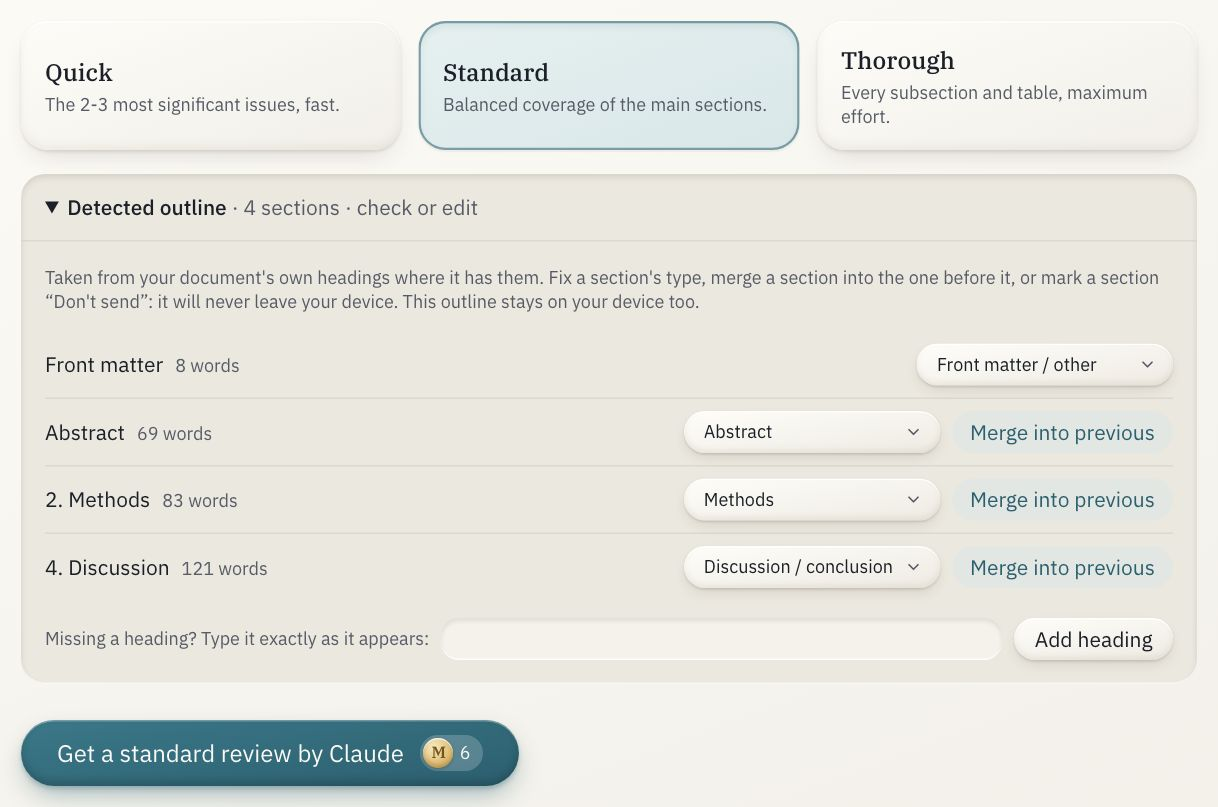
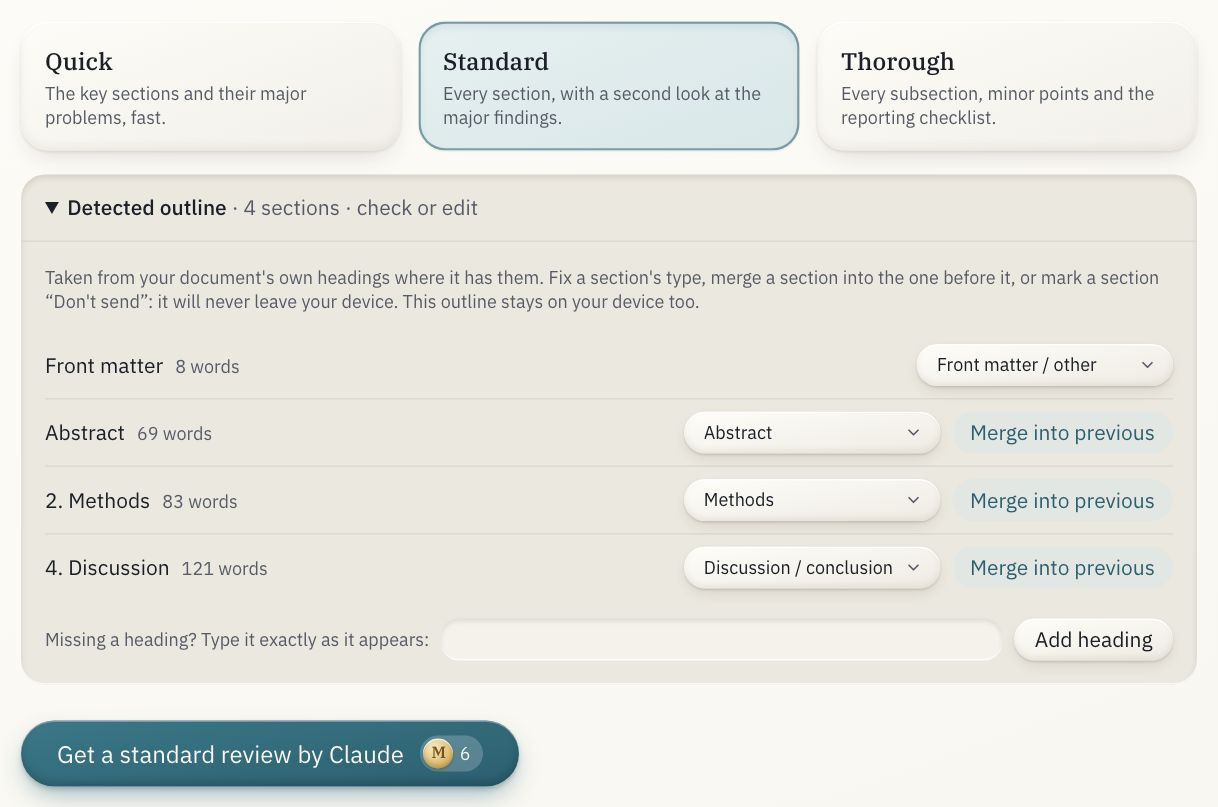
Review v2 copy: the consent, privacy notice v4, terms, refunds, pricing, guide and architecture say what it sends now

diff --git a/web/src/app/guide/page.tsx b/web/src/app/guide/page.tsx
@@ -330,9 +330,9 @@ export default function GuidePage() {
           <OptionTable
             title="Depth"
             rows={[
-              { name: "Quick", what: "The abstract, results and discussion; the 2–3 most significant issues, fast." },
-              { name: "Standard", what: "Every section except the references and supplementary material; balanced coverage.", def: "Default" },
-              { name: "Thorough", what: "Every section except the references, every subsection and table, with the most effort." },
+              { name: "Quick", what: "The abstract, results and discussion reviewed, with the whole paper as context; the major problems, fast." },
+              { name: "Standard", what: "Every section except the references and supplementary material, then a second look at the major findings and problems across the paper.", def: "Default" },
+              { name: "Thorough", what: "Standard, plus the supplementary material, each subsection on its own, minor points and suggestions, and the reporting checklist for your study type." },
             ]}
           />
           <OptionTable
@@ -351,12 +351,10 @@ export default function GuidePage() {
             notes={[
               <>Marked in the colour for something that leaves your device.</>,
               <>
-                <strong>What happens</strong>: your text goes to Claude in a stated number of short requests: one per section, then one cross-check of the
-                numbers found. Author names and email addresses are stripped first (best effort).
+                <strong>What happens</strong>: your text goes to Claude in a stated number of requests, each carrying the paper and doing one part: a section each, then the final report. Author names and email addresses are stripped first (best effort).
               </>,
               <>
-                <strong>The price</strong>: what this review costs in M coins, and your balance. Any part that doesn&apos;t come back (a section, or the
-                final cross-check) is refunded about two hours after it starts; resuming or retrying costs nothing more.
+                <strong>The price</strong>: what this review costs in M coins, and your balance. Any part that doesn&apos;t come back (a section, the reporting checklist or the final report) is refunded about two hours after it starts; resuming or retrying costs nothing more.
               </>,
               <>
                 <strong>Send it and review</strong>: the only way a review starts, and only once you tick the box agreeing to send the text. Cancel
@@ -366,7 +364,7 @@ export default function GuidePage() {
           />
           <Aside tone="away" title="What a review sends, and what happens to it">
             <p>
-              The text of the sections you didn&apos;t mark <strong>Don&apos;t send</strong>, to Anthropic&apos;s Claude API. Anthropic doesn&apos;t train
+              The text of the sections you didn&apos;t mark <strong>Don&apos;t send</strong>, with every request, to Anthropic&apos;s Claude API, which may hold it in memory for a few minutes to reuse between the requests. Anthropic doesn&apos;t train
               on API data and deletes it within 30 days, keeping it longer only to enforce its Usage Policy or where the law requires; MargaLink stores
               none of it. Papers over 400,000 characters are refused before the notice, never cut short.
             </p>
@@ -386,38 +384,36 @@ export default function GuidePage() {
           </DocPart>
           <DocPart title="While it runs">
             <p>
-              A bar shows each section as it&apos;s read. <strong>Cancel</strong> stops it without using a review; <strong>Resume review</strong> picks up
+              Each section&apos;s review appears as it comes back; the overview and <strong>Fix these first</strong> come last. <strong>Cancel</strong> stops it without using a review; <strong>Resume review</strong> picks up
               where it stopped. If a section couldn&apos;t be checked, the rest still finishes and <strong>Retry failed sections</strong> re-runs just
               those.
             </p>
           </DocPart>
           <Shot
             name="review-result"
-            alt="The review: the journal fit, and the prioritised list with quoted passages"
+            alt="The review's overview: what the paper does, its strengths and weaknesses, the journal fit, and what to fix first"
             notes={[
               <>
-                <strong>Journal fit</strong>: good, possible or poor, with the reasoning.
+                <strong>Overview</strong>: what the paper does, its strengths and main weaknesses, and the journal fit.
               </>,
               <>
-                <strong>Fix these first</strong>: the findings that matter most, in order; major ones are marked.
+                <strong>Fix these first</strong>: the findings that matter most, in order; each one takes you to it.
               </>,
               <>
-                <strong>The passages</strong> each finding rests on. Every quote was checked against your paper before you see it.
+                <strong>Download</strong>, <strong>Print or save as PDF</strong>, <strong>Copy</strong>: keep the report. It&apos;s also kept in this browser until you forget it.
               </>,
             ]}
           />
           <Shot
             name="review-result-more"
-            alt="The rest of the review: inconsistencies, statistical reporting, and coverage"
+            alt="The review section by section, with the coverage"
             notes={[
               <>
-                <strong>Inconsistencies</strong>: numbers that disagree between sections.
+                <strong>Section by section</strong>: each section&apos;s verdict, then its findings, each with the passages it rests on (every quote checked against your paper), why it matters and what to do.
               </>,
+              <>Major findings get a second look; a doubtful one is put as a question.</>,
               <>
-                <strong>Statistical reporting</strong>: for example an effect without a confidence interval.
-              </>,
-              <>
-                <strong>Coverage</strong>: which sections were reviewed, any that couldn&apos;t be, and what this depth skipped.
+                <strong>Coverage</strong>: which sections were reviewed, any that couldn&apos;t be, and findings set aside on a second look.
               </>,
             ]}
             caption="It's a second opinion from a language model: consider it, but don't treat it as a guarantee."
@@ -993,7 +989,7 @@ export default function GuidePage() {
               <>
                 <strong>Length</strong>: the characters sent, in steps of 50,000.
               </>,
-              <>Sections you mark &ldquo;Don&apos;t send&rdquo;, and those a depth skips, don&apos;t count. Resuming or retrying is free.</>,
+              <>Sections you mark &ldquo;Don&apos;t send&rdquo; don&apos;t count; every other section is sent, at every depth. Resuming or retrying is free.</>,
               <>
                 <strong>Ask Claude</strong>: 1 M coin a request.
               </>,
@@ -1004,7 +1000,7 @@ export default function GuidePage() {
           />
           <Aside title="Coins come back on their own">
             <p>
-              A review&apos;s price is shared among its sections, by length, and the final cross-check; any part that doesn&apos;t come back is
+              A review&apos;s price is shared among its parts: its sections, by length, and the reporting checklist and the final report; any part that doesn&apos;t come back is
               refunded about two hours after the review started. An Ask Claude request or a rewrite that fails is refunded at once. Your history on the account
               page shows each refund.
             </p>

diff --git a/web/src/app/architecture/page.tsx b/web/src/app/architecture/page.tsx
@@ -116,8 +116,9 @@ export default function ArchitecturePage() {
           />
           <Aside tone="away" title="What the three exceptions send">
             <p>
-              <strong>The review:</strong> the paper&apos;s text (author lines stripped, best effort), one request per section chunk, then one over the
-              extracted claims, never the text again. Sections the user marks Don&apos;t send are never in any request.
+              <strong>The review:</strong> the paper&apos;s text (author lines stripped, best effort) with every request, each doing one part: a section, the
+              checklist at thorough depth, then the editor. The paper block is cached by Anthropic for a few minutes between them. Sections the user marks
+              Don&apos;t send, and references, are never in any request.
             </p>
             <p>
               <strong>Ask Claude:</strong> column names and inferred types, the row count, the request text, the current figure spec with typed text
@@ -162,16 +163,16 @@ export default function ArchitecturePage() {
         </DocSection>
 
         {/* ---------------------------------------------------------------- */}
-        <DocSection id="reviewing" title="The AI review" icon={icon(FileCheck2)} tint="#ecdcc0" lead="A map-reduce over the paper, run by the browser, where every quote the user sees has been verified against the paper.">
+        <DocSection id="reviewing" title="The AI review" icon={icon(FileCheck2)} tint="#ecdcc0" lead="Section reviewers and an editor, run by the browser over a cached copy of the paper, where every quote the user sees has been found in the paper.">
           <Steps
             tint="#ecdcc0"
             steps={[
               { title: "Prepare, on the device", detail: "Author lines stripped; the text normalised once (NFKC, ligatures, hyphenation, quotes) so quotes come back in the alphabet the check reads.", files: "review.ts" },
-              { title: "Find the sections", detail: "From the document's own headings (Word heading styles; a PDF's fonts), a word list otherwise. The user can fix the outline and mark sections Don't send.", files: "headingHints.ts · reviewSections.ts" },
-              { title: "Extract, per chunk", detail: "≤16k-character chunks, up to 3 at a time: bounded lists of quantitative claims, each with a verbatim quote.", files: "reviewOrchestrator.ts → /api/review", away: true },
-              { title: "Verify every quote", detail: "On the server, each quote is checked against that chunk only; a quote that isn't there is dropped. A truncated pass is retried once asking for fewer claims.", files: "reviewGrounding.ts" },
-              { title: "Cross-check the ledger", detail: "One pass over the claims ledger (never the text) finds inconsistencies and writes the prioritised summary. It can only cite ledger ids; unknown ids are dropped.", files: "reviewPasses.ts", away: true },
-              { title: "Assemble", detail: "Findings with their verified quotes, and coverage: what was reviewed, what failed (retryable alone), what the depth skipped.", files: "reviewTypes.ts" },
+              { title: "Find the sections", detail: "From the document's own headings (Word heading styles; a PDF's fonts), a word list otherwise. The user can fix the outline and mark sections Don't send. At thorough depth, each subsection of 2,000+ characters is its own part.", files: "headingHints.ts · reviewSections.ts" },
+              { title: "Review each section", detail: "One pass per section, each with the whole paper as context and a checklist for its kind. The first runs alone so Anthropic caches the paper; the rest run 4 at a time.", files: "reviewOrchestrator.ts → /api/review", away: true },
+              { title: "Verify every quote", detail: "On the server, every quote is looked up in the paper; one that isn't there is removed, and a finding left with nothing to point at is dropped.", files: "reviewGrounding.ts" },
+              { title: "Edit", detail: "One editor pass over every finding by id: the overview, merged duplicates, a second look at major findings, problems across the paper, what to fix first. It can only name ids it was shown.", files: "reviewPasses.ts", away: true },
+              { title: "Assemble and keep", detail: "The report is built from ids, so every finding shows once; it is kept in the browser and can be downloaded, printed or copied.", files: "reviewReport.ts · reviewKeep.ts" },
             ]}
           />
           <DocPart title="Why it's built this way">
@@ -182,9 +183,9 @@ export default function ArchitecturePage() {
               reporting), and quotes that appear nowhere (every quote is verified).
             </p>
             <p>
-              Depth decides which section kinds are read, the claims cap per chunk and the effort of the cross-check; verification is the same at every
-              depth. The Function checks exact request shapes and caps, applies the daily pass cap before calling upstream, streams from Anthropic (long
-              non-streaming calls time out at the edge) and keeps nothing between requests. Papers over 400,000 characters are refused before the notice.
+              Depth decides which sections are reviewed, how many findings each may have, whether the editor double-checks and looks across the paper,
+              and the reporting checklist; verification is the same at every depth. The Function checks exact request shapes and caps, applies the daily
+              pass cap before calling upstream, streams from Anthropic and keeps nothing between requests. Papers over 400,000 characters are refused before the notice.
             </p>
           </DocPart>
         </DocSection>
@@ -279,9 +280,9 @@ export default function ArchitecturePage() {
                 name: "Paying for a review",
                 what: (
                   <>
-                    {code("review/start")} gets section ids and lengths (never text), charges {code("reviewPrice")} and issues a ticket bound to them for two
+                    {code("review/start")} gets every chunk&apos;s id and length and which are reviewed (never text), charges {code("reviewPrice")} on the whole paper and issues a ticket bound to them for two
                     hours. Every pass is claimed before Claude is called: a section that came back isn&apos;t sent again, and each gets at most four tries. When
-                    the ticket expires, what it didn&apos;t deliver is refunded, sections weighed by length.
+                    the ticket expires, what it didn&apos;t deliver is refunded, sections weighed by length, the checklist and the editor as an average section.
                   </>
                 ),
                 away: true,

diff --git a/web/src/components/review/ReviewConsent.tsx b/web/src/components/review/ReviewConsent.tsx
@@ -38,12 +38,14 @@ export default function ReviewConsent({
       </p>
       <p className="font-serif text-lg font-medium">Send this paper&apos;s text to Claude for a {tier} review?</p>
       <p className="mt-2 text-sm leading-relaxed text-ink-soft">
-        Unlike matching and the structural checks, this sends your paper&apos;s text to Anthropic&apos;s Claude API, in the United States, in{" "}
-        {passCount} short requests (one per section, then one cross-check over the numbers found) to review it against {journalName}&apos;s
-        guidelines, at {tier} depth. We try to remove author names and email addresses first; this is automatic and can miss some, so check. The
-        paper&apos;s content itself is sent as it is. MargaLink doesn&apos;t store it. Anthropic doesn&apos;t use it to train models and deletes it
-        within 30 days; it may keep it longer only to enforce its Usage Policy or where the law requires. This is the one feature in MargaLink that
-        sends your whole paper&apos;s text off your device; Rewrite sends only a passage you select.
+        Unlike matching and the structural checks, this sends your paper&apos;s text to Anthropic&apos;s Claude API, in the United States, to review it
+        against {journalName}&apos;s guidelines at {tier} depth. It goes in {passCount} requests: each carries the paper&apos;s text and does one part of
+        the review (a section each, the reporting checklist at thorough depth, then the final report), and Anthropic may hold the text in memory for a
+        few minutes to reuse it between them. We try to remove author names and email addresses first; this is automatic and can miss some, so check.
+        The paper&apos;s content itself is sent as it is. MargaLink doesn&apos;t store it; the finished review is kept only in your browser.
+        Anthropic doesn&apos;t use it to train models and deletes it within 30 days; it may keep it longer only to enforce its Usage Policy or where the
+        law requires. This is the one feature in MargaLink that sends your whole paper&apos;s text off your device; Rewrite sends only a passage you
+        select.
         {excludedCount > 0 &&
           ` The ${excludedCount} section${excludedCount === 1 ? "" : "s"} you marked "Don't send" won't be sent at all.`}
       </p>
@@ -57,8 +59,7 @@ export default function ReviewConsent({
       <p className="mt-3 flex items-start gap-2 text-sm leading-relaxed" data-testid="review-price">
         <Coin className="mt-0.5" />
         <span>
-          This review costs <strong className="font-medium">{price} M coins</strong>; you have {balance}. If part of it doesn&apos;t come back (a
-          section, or the final cross-check), you get that part&apos;s coins back automatically, about two hours after it starts. Resuming or retrying
+          This review costs <strong className="font-medium">{price} M coins</strong>; you have {balance}. If part of it doesn&apos;t come back (a section, the reporting checklist or the final report), you get that part&apos;s coins back automatically, about two hours after it starts. Resuming or retrying
           within those two hours costs nothing more.
         </span>
       </p>

diff --git a/web/src/app/privacy/page.tsx b/web/src/app/privacy/page.tsx
@@ -21,7 +21,7 @@ export const metadata: Metadata = {
 // and bump the version (accounts/notice.ts) and the date below.
 // users.notice_version records which version each account agreed to; new
 // accounts get NOTICE_VERSION (access/access.ts admitUser).
-const VERSION = `Version ${NOTICE_VERSION}, last updated 3 October 2026`;
+const VERSION = `Version ${NOTICE_VERSION}, last updated 4 October 2026`;
 
 const TOC: TocItem[] = [
   { id: "summary", label: "In short" },
@@ -156,7 +156,7 @@ export default function PrivacyPage() {
               a server. Clearing this site&apos;s data in your browser deletes them, so use &ldquo;Download backup&rdquo; to keep a copy or move to
               another computer. Spelling and grammar are checked in your browser too, and the words you add to a paper&apos;s dictionary are kept with
               that paper. Two features can send a draft&apos;s text, each only after its notice (below): the AI review, if you run it, sends the
-              paper&apos;s text, and Rewrite, if you turn it on for a paper, a passage you select.
+              paper&apos;s text, and Rewrite, if you turn it on for a paper, a passage you select. A finished review is kept in your browser too, with its paper in the writing workspace and the last one on the review page, until you forget it.
             </p>
           </Section>
 
@@ -172,9 +172,10 @@ export default function PrivacyPage() {
                   name: "AI pre-submission review",
                   what: (
                     <>
-                      Your paper&apos;s text, a section at a time, then one cross-check over the numbers found, with the chosen journal&apos;s guidelines.
-                      Author names and email addresses are stripped first (best effort). Sections you mark &ldquo;Don&apos;t send&rdquo; are never
-                      sent.
+                      Your paper&apos;s text with every request, each doing one part of the review (a section each, the reporting checklist at thorough
+                      depth, then the final report), with the chosen journal&apos;s guidelines. Anthropic may hold the text in memory for a few minutes to
+                      reuse it between these requests. Author names and email addresses are stripped first (best effort). Sections you mark
+                      &ldquo;Don&apos;t send&rdquo;, and the references, are never sent.
                     </>
                   ),
                   away: true,

diff --git a/web/src/app/refunds/page.tsx b/web/src/app/refunds/page.tsx
@@ -29,8 +29,7 @@ export default function RefundsPage() {
 
         <LegalSection title="Coins back, automatically">
           <p>
-            A review&apos;s price is shared among its parts: each section it sends, weighed by its length, and the final cross-check, counted like an
-            average section. Any part that doesn&apos;t come back is refunded (rounded up to whole coins), whether or not the rest of the review
+            A review&apos;s price is shared among its parts: each section it reviews, weighed by its length, and the reporting checklist (at thorough depth) and the final report, each counted like an average section. Any part that doesn&apos;t come back is refunded (rounded up to whole coins), whether or not the rest of the review
             finished, about two hours after the review started. An Ask Claude request that fails, or
             whose answer can&apos;t be used, is refunded at once, and so is a rewrite that fails or that our checks refuse. A rewrite that came back
             but wasn&apos;t put in (your text changed first, or it couldn&apos;t be placed around a citation or another object) isn&apos;t refunded,

diff --git a/web/src/app/review/_components/TierPicker.tsx b/web/src/app/review/_components/TierPicker.tsx
@@ -2,9 +2,9 @@ import type { ReviewTier } from "@/lib/review/reviewTypes";
 
 // The review's tier choices, as the picker shows them.
 export const TIER_OPTIONS: { value: ReviewTier; label: string; description: string }[] = [
-  { value: "quick", label: "Quick", description: "The 2-3 most significant issues, fast." },
-  { value: "standard", label: "Standard", description: "Balanced coverage of the main sections." },
-  { value: "thorough", label: "Thorough", description: "Every subsection and table, maximum effort." },
+  { value: "quick", label: "Quick", description: "The key sections and their major problems, fast." },
+  { value: "standard", label: "Standard", description: "Every section, with a second look at the major findings." },
+  { value: "thorough", label: "Thorough", description: "Every subsection, minor points and the reporting checklist." },
 ];
 
 export default function TierPicker({ tier, onSelect }: { tier: ReviewTier; onSelect: (tier: ReviewTier) => void }) {

diff --git a/web/src/app/pricing/page.tsx b/web/src/app/pricing/page.tsx
@@ -78,8 +78,8 @@ export default function PricingPage() {
             </tbody>
           </table>
           <p className="border-t border-line/70 px-5 py-3 text-xs leading-relaxed text-ink-soft">
-            Priced by what&apos;s actually sent: sections you mark &ldquo;Don&apos;t send&rdquo;, and the ones a depth skips, don&apos;t count; a section
-            shorter than 2,000 characters counts as 2,000. Resuming or retrying a review costs nothing more. Each account can make up to 150 review
+            Priced by what&apos;s actually sent: every section goes with each request, as the paper the reviewers read, at every depth, so only sections
+            you mark &ldquo;Don&apos;t send&rdquo; don&apos;t count; a section shorter than 2,000 characters counts as 2,000. Resuming or retrying a review costs nothing more. Each account can make up to 150 review
             passes, 50 Ask Claude requests and 100 rewrites a day.
           </p>
         </div>

diff --git a/web/src/app/terms/page.tsx b/web/src/app/terms/page.tsx
@@ -90,8 +90,7 @@ export default function TermsPage() {
             </li>
             <li>We spend Pro coins first, then your other coins.</li>
             <li>
-              The price of every use is shown before anything is sent. Any part of a review that doesn&apos;t come back (a section, or the final
-              cross-check) is refunded in coins automatically, and a failed Ask Claude request at once.
+              The price of every use is shown before anything is sent. Any part of a review that doesn&apos;t come back (a section, the reporting checklist or the final report) is refunded in coins automatically, and a failed Ask Claude request at once.
             </li>
             <li>
               A rewrite costs 1 M coin per {REWRITE_WORDS_PER_COIN} words you select (a long unbroken run of characters counts as a word for

diff --git a/web/src/app/write/_components/ReviewWindow.tsx b/web/src/app/write/_components/ReviewWindow.tsx
@@ -98,7 +98,7 @@ export default function ReviewWindow({
         <section className="mt-10 border-t border-line pt-6">
           <h3 className="font-serif text-lg font-medium">Get it reviewed</h3>
           <p className="mt-1 text-ink-soft">
-            An LLM review from Claude: inconsistencies, statistical reporting gaps, journal fit. The one feature that sends your whole paper&apos;s text off
+            An LLM review from Claude: each section reviewed in turn, problems across the paper, and journal fit. The one feature that sends your whole paper&apos;s text off
             this device (Rewrite sends only a passage you select), and only after you confirm the notice.
           </p>
           <ReviewRunner review={r} onCitation={jump} />

diff --git a/web/src/app/review/page.tsx b/web/src/app/review/page.tsx
@@ -69,7 +69,7 @@ export default function ReviewPage() {
             title="Get it reviewed"
             hint={
               <>
-                An LLM review from Claude that checks for inconsistencies, statistical reporting gaps, and journal fit. The one feature on MargaLink that
+                An LLM review from Claude: each section reviewed in turn, problems across the paper, and journal fit. The one feature on MargaLink that
                 sends your whole paper&apos;s text off this device (the other opt-in exceptions send only what you choose: Rewrite, a passage you
                 select; the figure studio&apos;s &ldquo;Ask Claude&rdquo;, a description of your data, never its values).
               </>

diff --git a/web/src/app/review/_components/OutlineEditor.tsx b/web/src/app/review/_components/OutlineEditor.tsx
@@ -62,7 +62,7 @@ export default function OutlineEditor({
                 {r.title}
                 <span className="ml-2 text-xs text-ink-soft">
                   {countWords(r.text).toLocaleString()} words
-                  {r.excluded ? " · won't be sent" : r.reviewedAtTier ? "" : " · not reviewed at this depth"}
+                  {r.excluded ? " · won't be sent" : r.reviewedAtTier ? "" : " · read for context only at this depth"}
                 </span>
               </span>
               <select

diff --git a/web/src/lib/accounts/notice.ts b/web/src/lib/accounts/notice.ts
@@ -1,4 +1,4 @@
 // The privacy notice's version: /privacy shows it, and each account records
 // the one it signed up under (users.notice_version). Raise it with every
 // change to what's kept.
-export const NOTICE_VERSION = 3;
+export const NOTICE_VERSION = 4;
